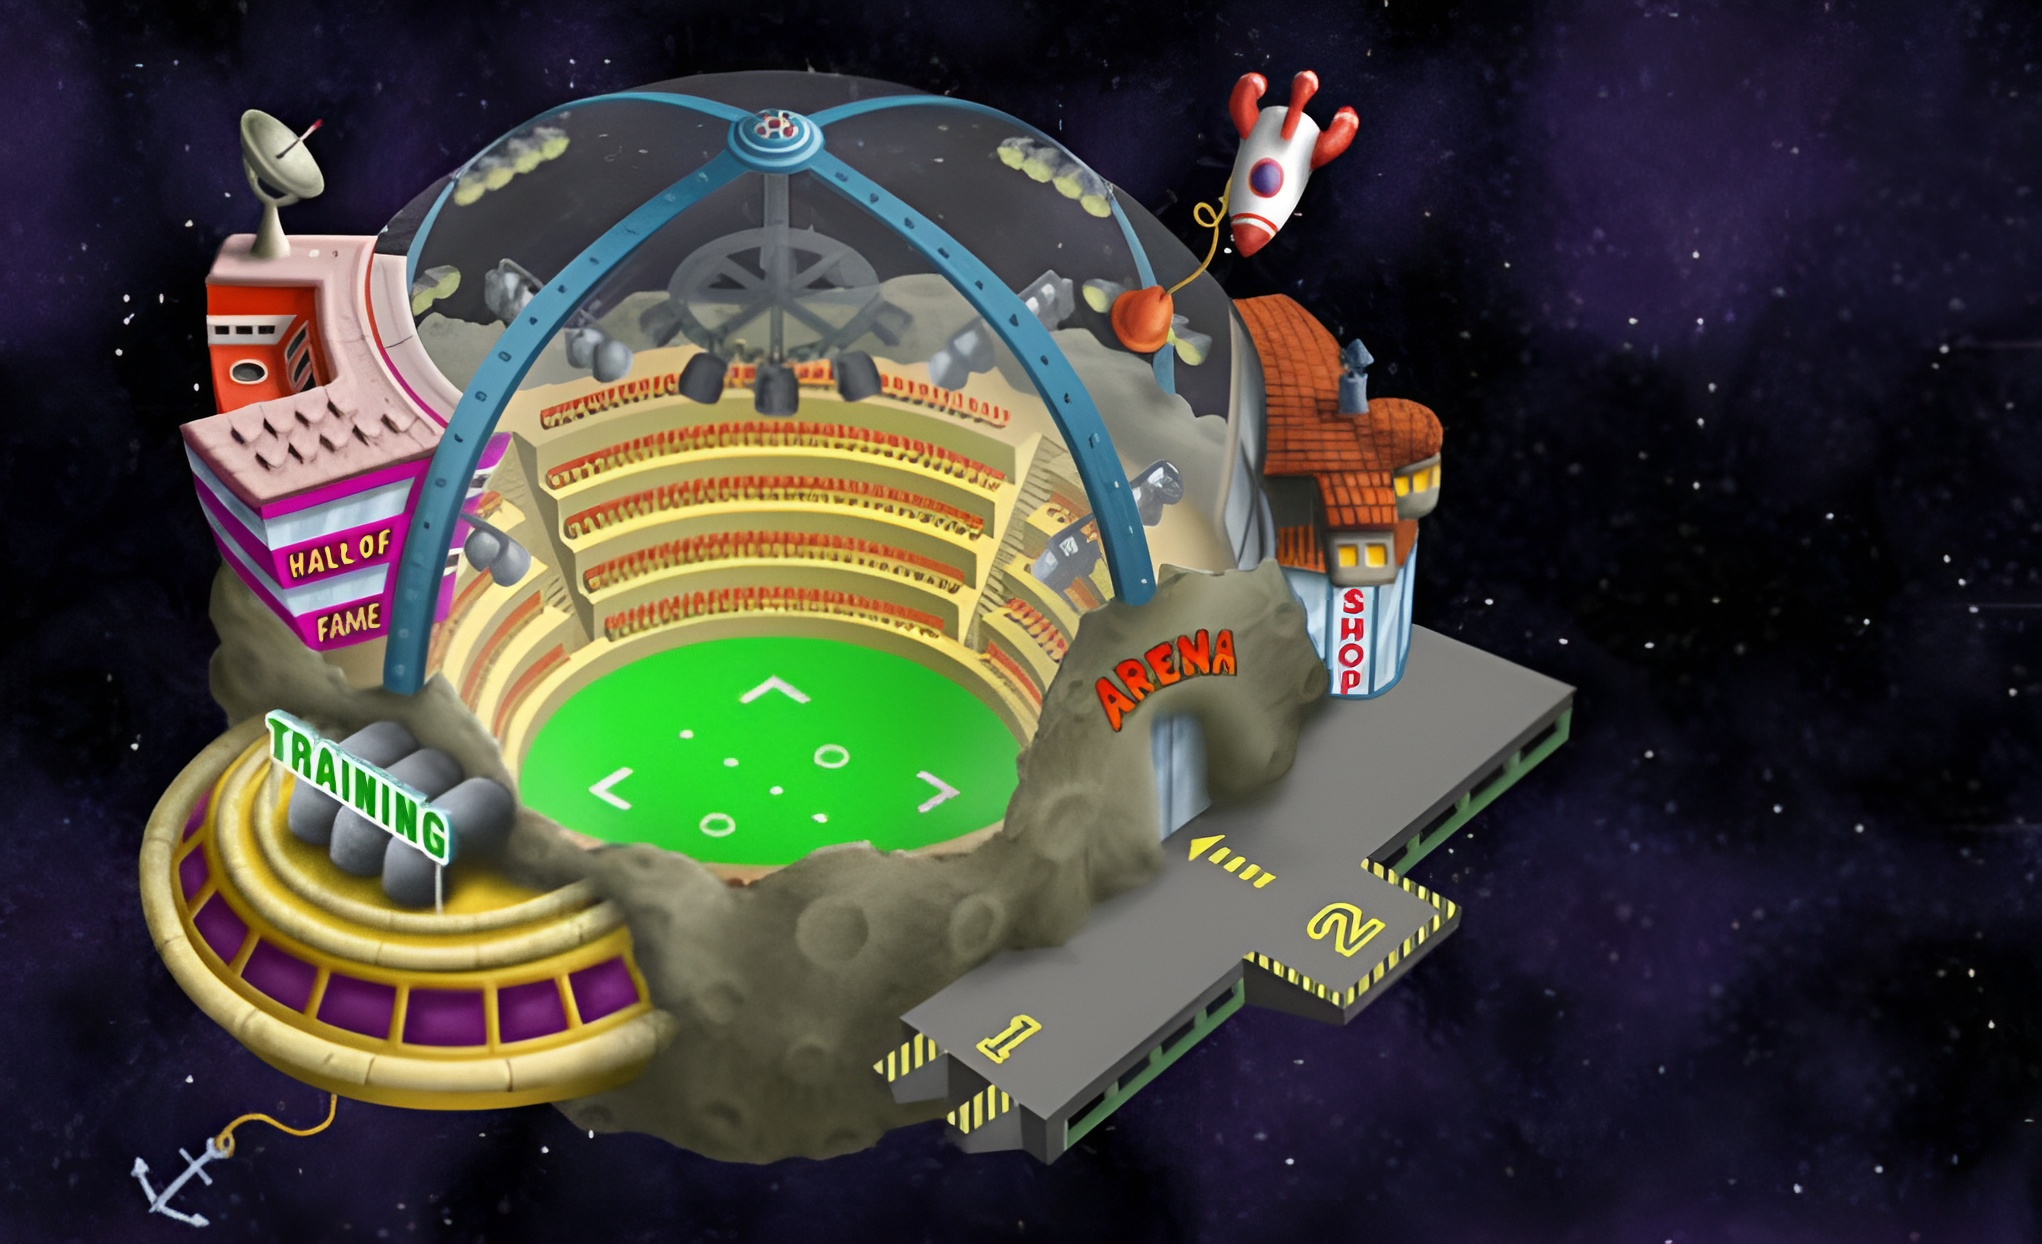
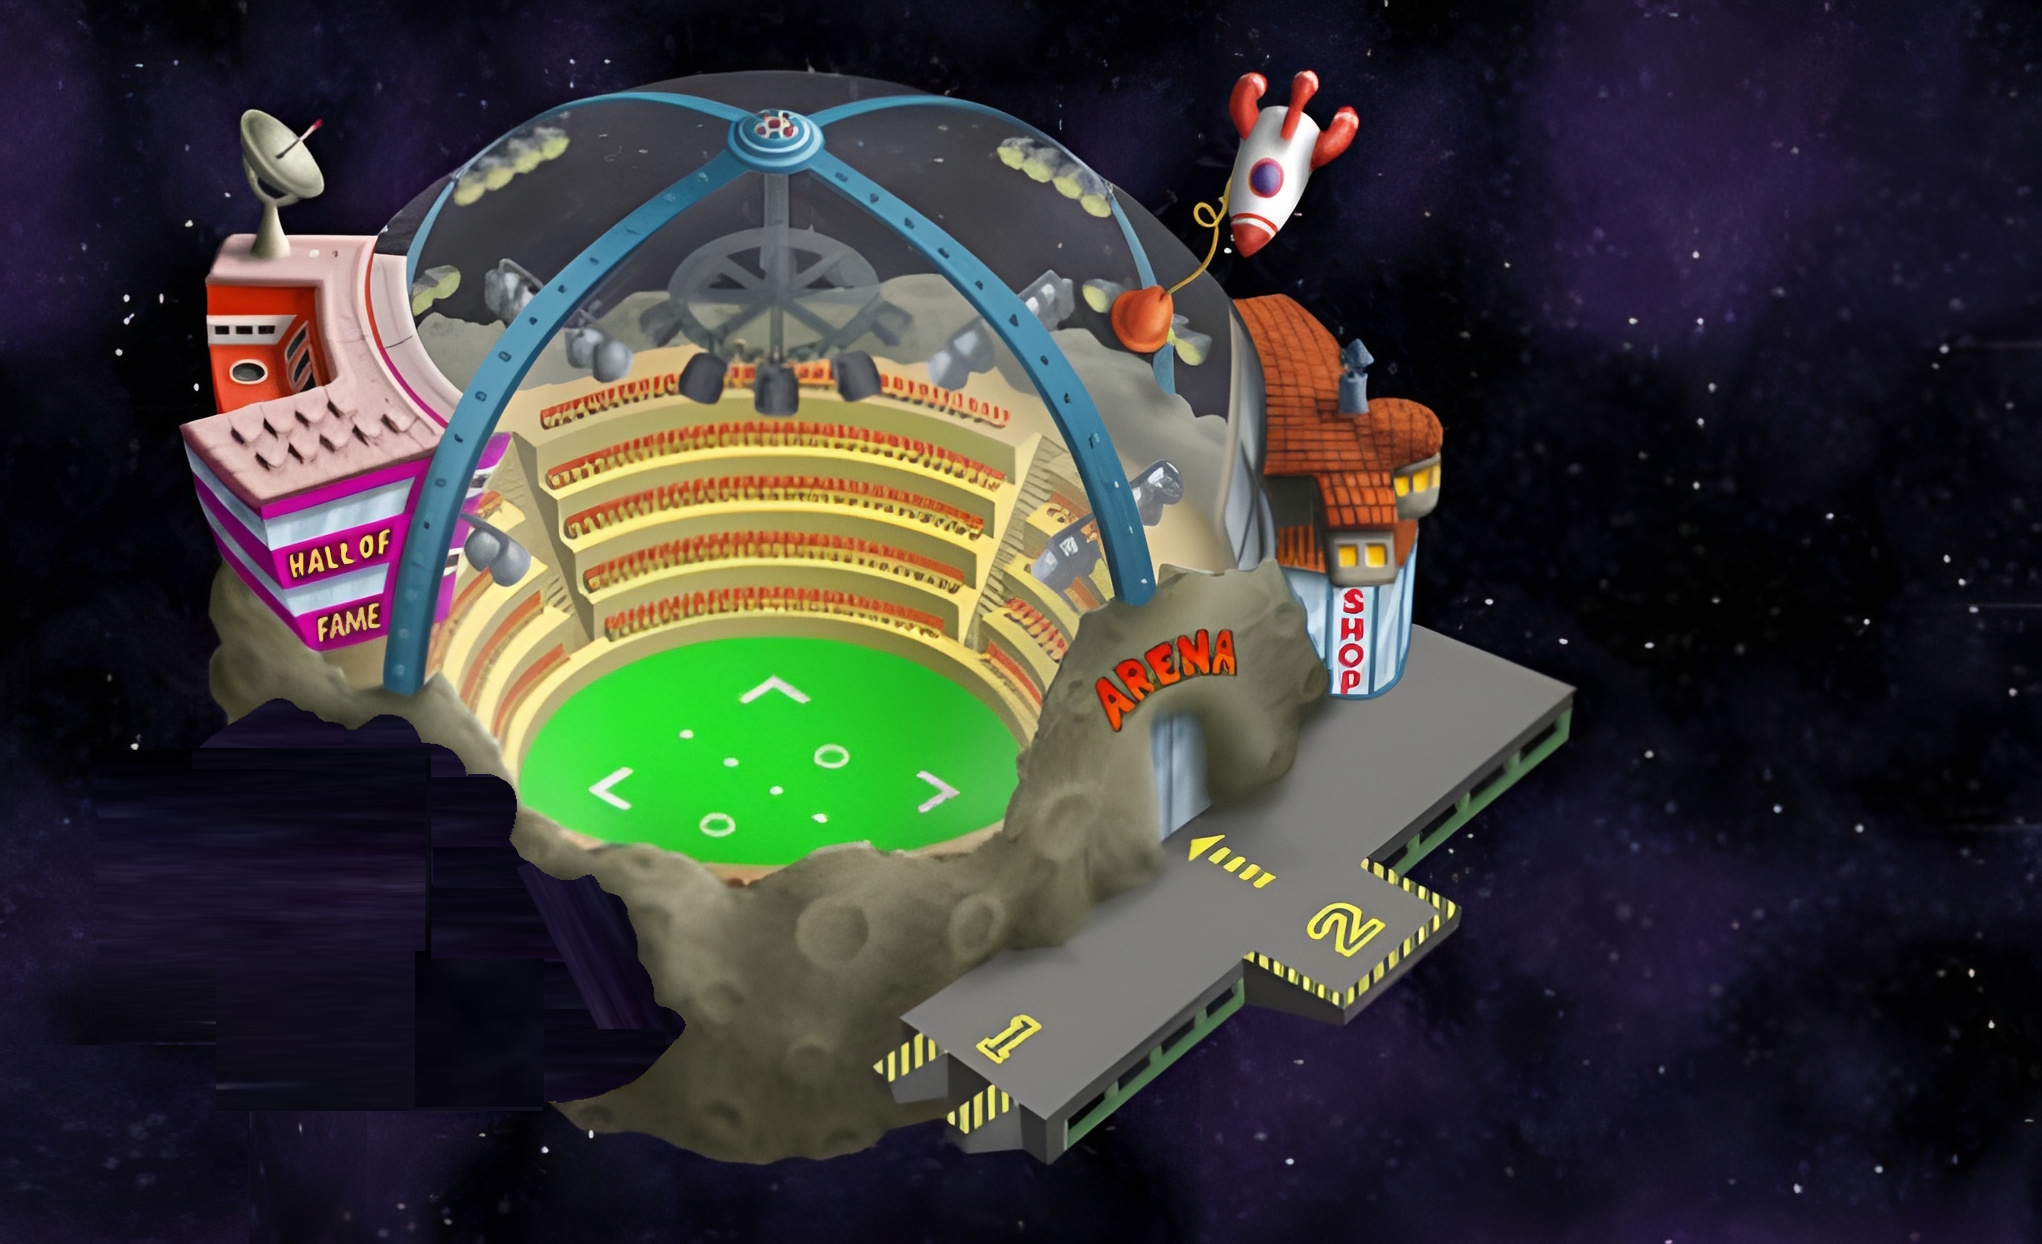
feat(ui): resize training button on hover

Changed region(s): [[0.0617, 0.5498, 0.3394, 0.9775], [0.0926, 0.9775, 0.1234, 1.0]]

diff --git a/pages/main.vue b/pages/main.vue
@@ -47,11 +47,19 @@ var errorMessage = ref("");
 
         <!-- Trainings-Button -->
 <!--        <div class="flex justify-center items-center h-full">-->
-        <button
-            class="absolute h-[35%] w-[30%] top-[56%] left-[3.7%] trainingButtonPolygon text-white font-bold trainingBtnFontSize px-[1.8%] py-[1%] pt-[0.7%] rounded shadow-md transition"
-            @click="navigateTo('/training')"
-        >
-        </button>
+<!--        Give following button an image -->
+
+<!--        <button-->
+<!--            class="absolute h-[35%] w-[30%] top-[56%] left-[3.7%] trainingButtonPolygon text-white font-bold trainingBtnFontSize px-[1.8%] py-[1%] pt-[0.7%] rounded shadow-md transition"-->
+<!--            @click="navigateTo('/training')"-->
+<!--        >-->
+<!--        </button>-->
+        <img
+            alt="TrainingImg"
+            class="absolute h-[48.3%] w-auto top-[53.27%] left-[-1.38%] trainingButtonPolygon px-[1.8%] py-[1%] pt-[0.7%] transition"
+            src="assets/images/TrainingButton.png"
+            @click="navigateTo('/training')">
+
 
 <!--        </div>-->
         <!-- Leaderboard-Button -->
@@ -68,15 +76,16 @@ var errorMessage = ref("");
   </div>
 </template>
 
+<!--  clip-path: polygon(30% 3%, 50% 6%, 70% 20%, 72% 40%, 85% 43%, 97% 76%, 93% 87%, 80% 92%, 70% 95%, 50% 95%, 40% 90%, 25% 78%, 15% 64%, 10% 50%, 10% 40%, 12% 25%, 18% 15%);-->
+<!--  background: rgba(140, 140, 140, 0.3);-->
 <style scoped>
 .trainingButtonPolygon {
-  clip-path: polygon(30% 3%, 50% 6%, 70% 20%, 72% 40%, 85% 43%, 97% 76%, 93% 87%, 80% 92%, 70% 95%, 50% 95%, 40% 90%, 25% 78%, 15% 64%, 10% 50%, 10% 40%, 12% 25%, 18% 15%);
   z-index: 10;
-  background: rgba(140, 140, 140, 0.3);
 }
 
 .trainingButtonPolygon:hover {
   transform: scale(1.04); /* optional: leichtes Vergrößern */
+  cursor:pointer;
 }
 
 .infoFontSize{
